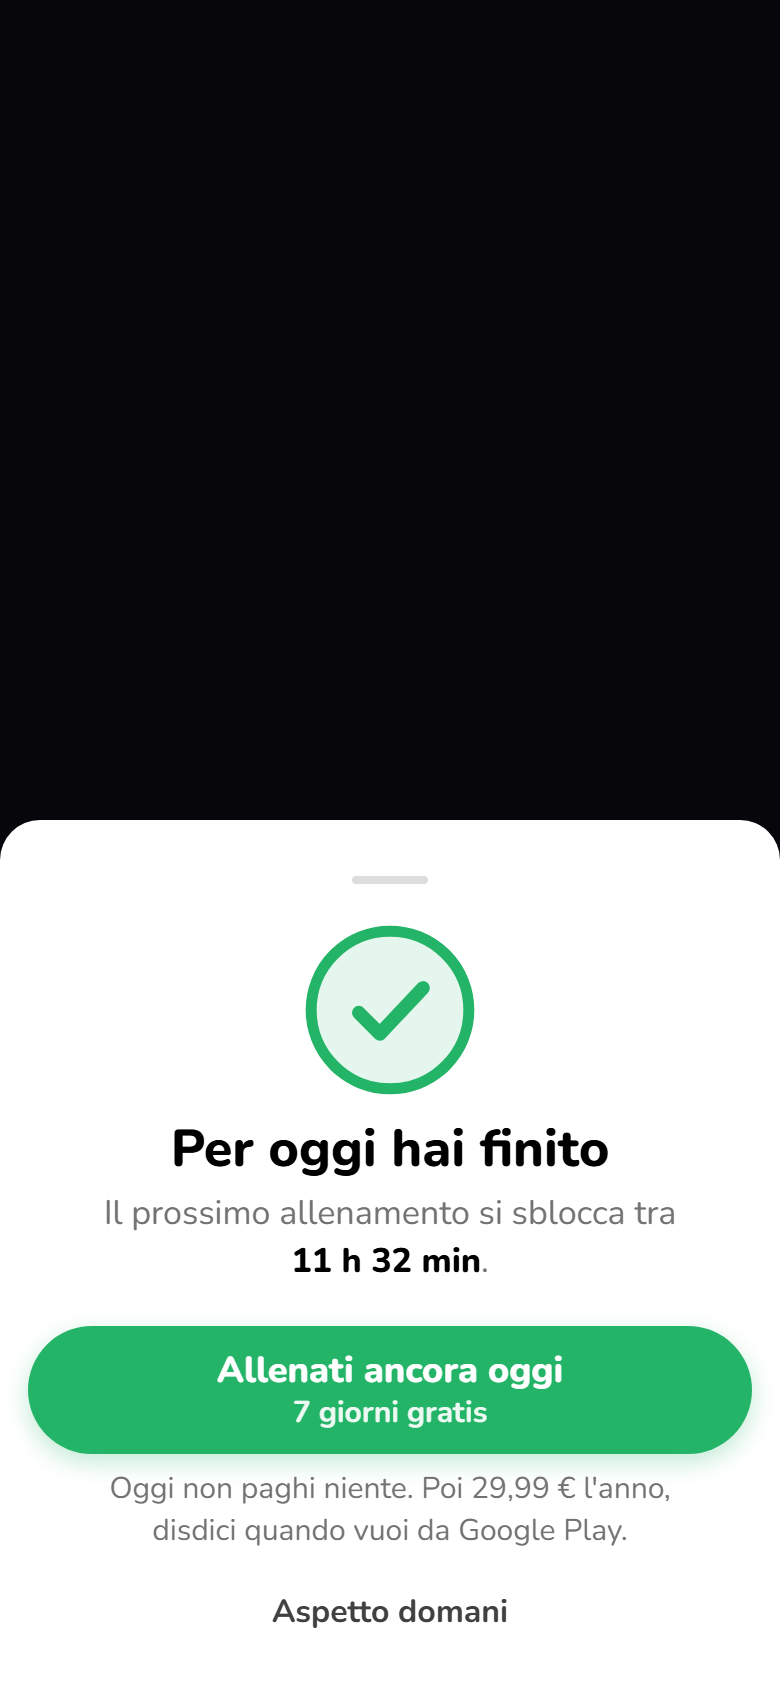
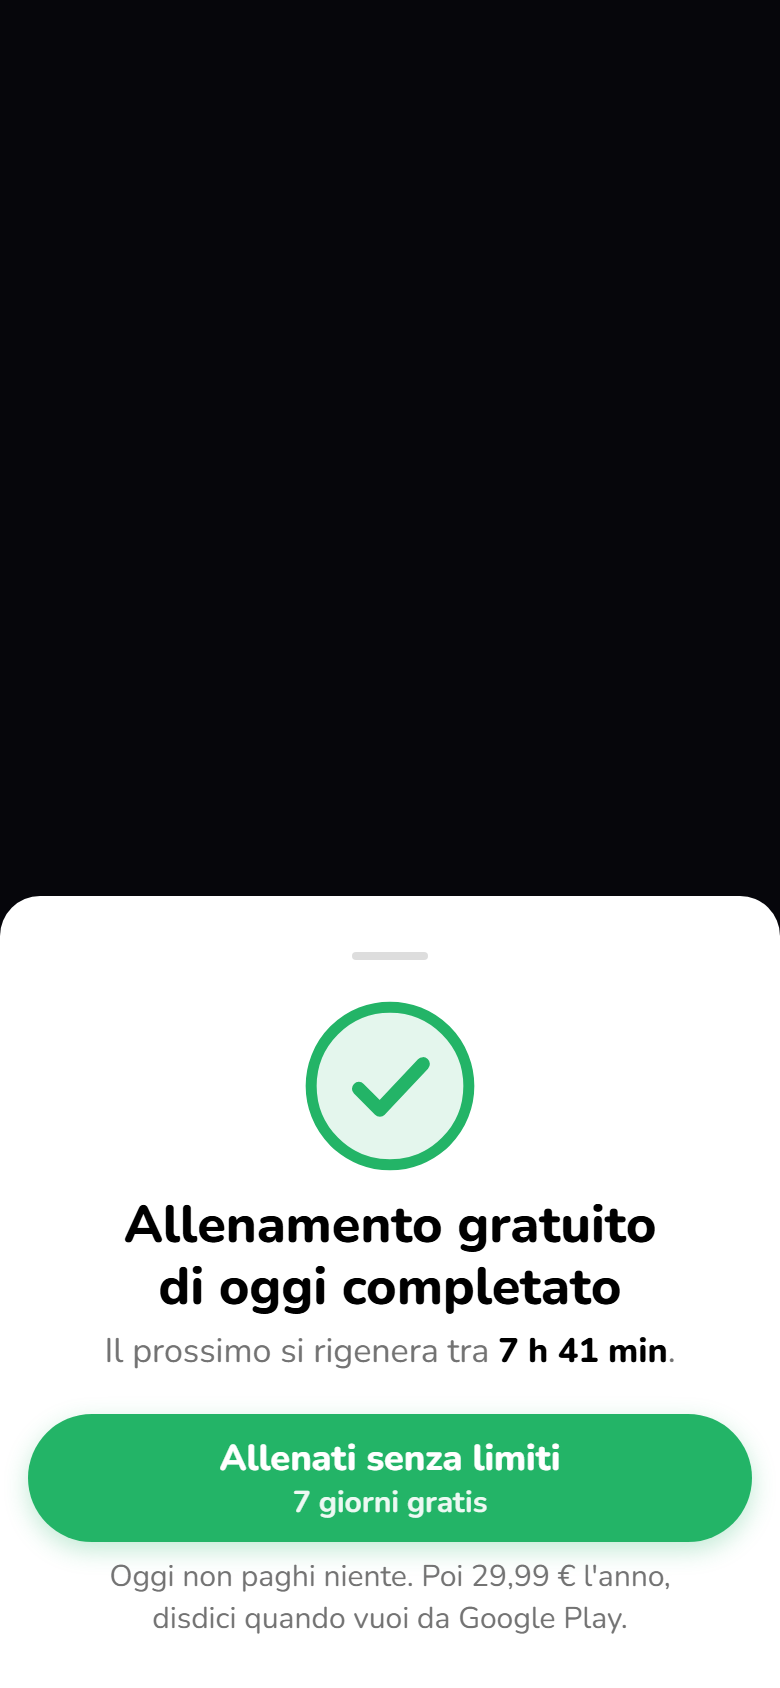
kpi: daily_limit_done copy (free workout done, recharges in, train without limits), no decline button, new shot

Changed region(s): [[0.0, 0.4621, 1.0, 0.9858]]

diff --git a/public/internal/js/kpi.js b/public/internal/js/kpi.js
@@ -7169,7 +7169,7 @@ function sezioneTimeoutBox(msg, retryCall) {
 // mostrare i byte vecchi anche con no-cache (successo il 17/09/2026: la miniatura di
 // «Fine onboarding · grafico» mostrava ancora «programma pronto», che era il contenuto
 // precedente di quel file). Da bumpare a ogni giro di paywall-shots.mjs.
-const PAYWALL_SHOT_V = '20261004a';
+const PAYWALL_SHOT_V = '20261004b';
 
 const CREATIVE_REGISTRY = [
   {
@@ -7301,7 +7301,7 @@ const CREATIVE_REGISTRY = [
     name: 'Limite giornaliero · prima versione',
     rotation: 'retired',
     where: 'Bottom-sheet sopra la schermata da cui si stava partendo — il popup della Roadmap in Home e il dettaglio allenamento. Non è una rotta: chi la chiude resta dov\'era.',
-    when: 'RITIRATA dal codice il 04/10/2026, sostituita da «Limite giornaliero · per oggi hai finito» (daily_limit_done) sullo stesso muro. Chi ha una build precedente continua a vederla finché non aggiorna l\'app: dopo il rilascio i suoi numeri vengono solo da lì, e calano man mano che la gente aggiorna. Dal 18/09 al 03/10, in due settimane l\'hanno vista 113 persone, nessuna ha comprato, e più di metà delle aperture arrivava a meno di 30 secondi dalla precedente. Dal 18/09/2026, quando un utente non premium prova ad avviare il SECONDO allenamento della giornata (ne ha già chiuso uno oggi). La giornata finisce a mezzanotte LOCALE del telefono, perché la sheet dice «si sblocca a mezzanotte» e la persona guarda l\'orologio che ha in mano. Non esce a chi riprende un allenamento col segnalibro, e in ogni dubbio — stato premium non ancora letto, conteggio in volo — si passa. Dal 20/09 anche dal tasto della Home, che è da dove la gente parte davvero: prima il muro arrivava una schermata dopo.',
+    when: 'RITIRATA dal codice il 04/10/2026, sostituita da «Limite giornaliero · gratuito completato» (daily_limit_done) sullo stesso muro. Chi ha una build precedente continua a vederla finché non aggiorna l\'app: dopo il rilascio i suoi numeri vengono solo da lì, e calano man mano che la gente aggiorna. Dal 18/09 al 03/10, in due settimane l\'hanno vista 113 persone, nessuna ha comprato, e più di metà delle aperture arrivava a meno di 30 secondi dalla precedente. Dal 18/09/2026, quando un utente non premium prova ad avviare il SECONDO allenamento della giornata (ne ha già chiuso uno oggi). La giornata finisce a mezzanotte LOCALE del telefono, perché la sheet dice «si sblocca a mezzanotte» e la persona guarda l\'orologio che ha in mano. Non esce a chi riprende un allenamento col segnalibro, e in ogni dubbio — stato premium non ancora letto, conteggio in volo — si passa. Dal 20/09 anche dal tasto della Home, che è da dove la gente parte davvero: prima il muro arrivava una schermata dopo.',
     exit: '«No grazie» è l\'uscita dichiarata, l\'unica che si conta come rifiuto esplicito (`continue_free`). Non c\'è nessuna ×: swipe, tocco fuori e tasto indietro restano e si registrano come `x_button`. A pagamento aperto non si chiude.',
     what: 'Un muro e una sola offerta, comprabile in un tocco senza passare dalla pagina dei piani — chi è qui stava per allenarsi e si è trovato fermato, e mettergli un confronto fra due tessere tra l\'intenzione e il pagamento è il modo di perderlo. Orologio col triangolo, «Limite giornaliero raggiunto», «Il prossimo allenamento si sblocca a mezzanotte», la riga del prezzo dell\'annuale con lo sconto sul mensile fra parentesi, il pulsante che compra, «No grazie». Il mensile non è nominato, quindi da qui non è comprabile.',
     note: 'L\'offerta nominata era `freetrial-7d`. Spenta su Play Console al 18/09/2026 e poi riattivata: il 25/09/2026 arrivava sull\'annuale a circa 88 telefoni su 100 (evento `paywall_product_updated`, `has_trial_offer`), quindi quasi tutti vedevano «Prova illimitato a 0 €». Chi non la riceveva — account che l\'aveva già consumata — vedeva «Sblocca allenamenti illimitati»: la sheet ripiegava sul listino e smetteva DA SOLA di nominare la prova. La percentuale di sconto era calcolata sui prezzi vivi, mai a mano.',
@@ -7312,16 +7312,16 @@ const CREATIVE_REGISTRY = [
   },
   {
     variant: 'daily_limit_done',
-    name: 'Limite giornaliero · per oggi hai finito',
+    name: 'Limite giornaliero · gratuito completato',
     rotation: 'live',
     where: 'Bottom-sheet sopra la schermata da cui si stava partendo — il popup della Roadmap in Home e il dettaglio allenamento. Non è una rotta: chi la chiude resta dov\'era.',
     when: 'Dalla build che esce dopo il 04/10/2026 (chi non ha ancora aggiornato vede la prima versione), stesso muro: un utente non premium prova ad avviare il SECONDO allenamento della giornata (ne ha già chiuso uno oggi). La giornata finisce a mezzanotte LOCALE del telefono. Non esce a chi riprende un allenamento col segnalibro, e in ogni dubbio — stato premium non ancora letto, conteggio in volo, conteggio rimasto a ieri — si passa.',
-    exit: '«Aspetto domani» è l\'uscita dichiarata (`continue_free`). Non c\'è nessuna ×: swipe e tocco fuori si registrano come `x_button`, il tasto indietro di Android come `back_hardware` (con la prima versione era l\'83% delle chiusure). «Perché no?» può comparire dopo `continue_free` e `x_button`, non dopo `back_hardware`; mai al primo paywall rifiutato e al massimo una volta ogni 7 giorni. A pagamento aperto non si chiude.',
-    what: 'Spunta verde al posto dell\'orologio con l\'avviso, «Per oggi hai finito», «Il prossimo allenamento si sblocca tra 9 h 42 min» con un conto alla rovescia VIVO fino alla mezzanotte del telefono, il pulsante verde a due righe «Allenati ancora oggi» + «7 giorni gratis», sotto «Oggi non paghi niente. Poi <prezzo annuale> l\'anno, disdici quando vuoi da Google Play», e «Aspetto domani». Niente percentuale di sconto. La riga sotto il pulsante è lì per il foglio di Google: con la versione precedente 12 persone su 12 lo chiudevano senza attivare la prova.',
-    note: 'Prezzo e giorni sempre dal catalogo vivo, offerta `freetrial-7d`. Chi la prova l\'ha già consumata legge «Allenati ancora oggi» + «<prezzo annuale> l\'anno» e sotto solo «Disdici quando vuoi da Google Play»; senza prezzo dallo store resta la prima riga del pulsante. Il `cta_copy` degli acquisti dice quale seconda riga si è letta (`cta_sub_trial` / `cta_sub_price`). I dati NON si sommano a quelli della versione precedente.',
+    exit: 'Nessun tasto di rifiuto e nessuna × («Aspetto domani» è stato tolto il 04/10/2026, prima del rilascio): si chiude toccando fuori o con lo swipe, che si registrano come `x_button`, o col tasto indietro di Android, che arriva come `back_hardware` (con la prima versione era l\'83% delle chiusure). «Perché no?» può comparire dopo `x_button`, non dopo `back_hardware`; mai al primo paywall rifiutato e al massimo una volta ogni 7 giorni. A pagamento aperto non si chiude.',
+    what: 'Spunta verde al posto dell\'orologio con l\'avviso, «Allenamento gratuito di oggi completato», «Il prossimo si rigenera tra 9 h 42 min» con un conto alla rovescia VIVO fino alla mezzanotte del telefono, il pulsante verde a due righe «Allenati senza limiti» + «7 giorni gratis», sotto «Oggi non paghi niente. Poi <prezzo annuale> l\'anno, disdici quando vuoi da Google Play». Nessun secondo bottone accanto al pulsante. Niente percentuale di sconto. La riga sotto il pulsante è lì per il foglio di Google: con la versione precedente 12 persone su 12 lo chiudevano senza attivare la prova.',
+    note: 'Prezzo e giorni sempre dal catalogo vivo, offerta `freetrial-7d`. Chi la prova l\'ha già consumata legge «Allenati senza limiti» + «<prezzo annuale> l\'anno» e sotto solo «Disdici quando vuoi da Google Play»; senza prezzo dallo store resta la prima riga del pulsante. Il `cta_copy` degli acquisti dice quale seconda riga si è letta (`cta_sub_trial` / `cta_sub_price`). I dati NON si sommano a quelli della versione precedente.',
     file: 'app/src/components/PremiumProposals/DailyLimitPaywall/DailyLimitFlow.tsx',
     screens: [
-      { idx: 0, t: 'La sheet', d: 'la spunta, il conto alla rovescia, il pulsante a due righe, la riga «oggi non paghi niente» e «Aspetto domani»' },
+      { idx: 0, t: 'La sheet', d: 'la spunta, il conto alla rovescia, il pulsante a due righe e la riga «oggi non paghi niente»' },
     ],
   },
   {
@@ -8409,7 +8409,7 @@ const CREATIVE_LABELS = {
   onboarding_trial: 'Paywall di partenza · con la prova',
   welcome_offer: 'Offerta di benvenuto',
   daily_limit_sheet: 'Limite giornaliero · prima versione',
-  daily_limit_done: 'Limite giornaliero · per oggi hai finito',
+  daily_limit_done: 'Limite giornaliero · gratuito completato',
   // Le cinque qui sotto avevano la scheda nel registro ma non l'etichetta: nella
   // tabella degli acquisti comparivano col nome tecnico della variant, perché
   // `premiumCreativeLabel` ripiega sulla chiave. Trovate il 21/09/2026 dal guard
